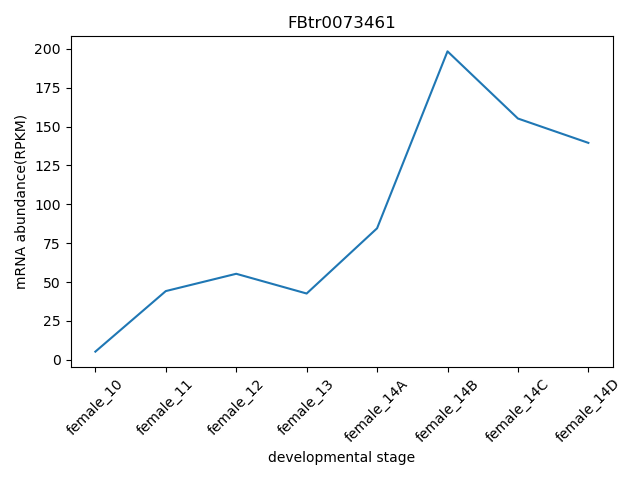
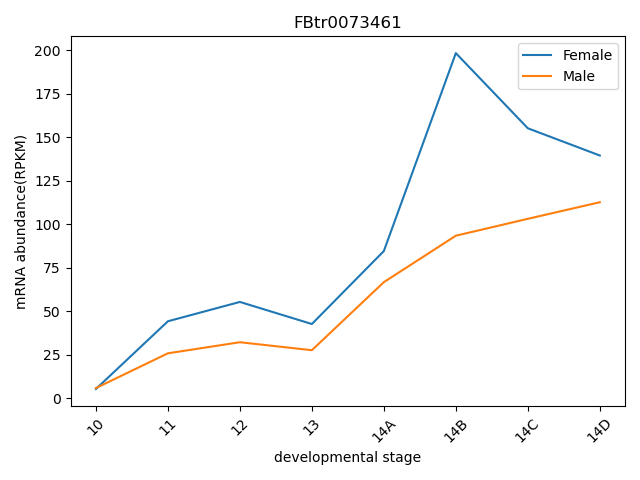
qbbhw2 step2

diff --git a/day2-homework/plot-sisA.py b/day2-homework/plot-sisA.py
@@ -16,29 +16,40 @@ data = np.loadtxt( "all_annotated.csv", delimiter=",", dtype=np.float32, skiprow
 print( "data: ", data[0:5, 0:5] )
 
 # Find row with transcript of interest
+row = 0
 for i in range(len(transcripts)):
     if transcripts[i] == 'FBtr0073461':
         row = i
 
 # Find columns with samples of interest
-cols = []
+cols1 = []
 for i in range(len(samples)):
     if "female" in samples[i]:
-        cols.append(i)
+        cols1.append(i)
+cols2 = []
+for i in range(len(samples)):
+    if "female" not in samples[i]:
+        cols2.append(i)
+# print(cols1)
+# print(cols2)
 
 # Subset data of interest
-expression = data[row, cols]
+expression_f = data[row, cols1]
+expression_m = data[row, cols2]
 
 # Prepare data
-x = samples[cols]
-y = expression
+x = ["10","11","12","13","14A","14B","14C","14D"]
+y1 = expression_f
+y2 = expression_m
 
 # Plot data
 fig, ax = plt.subplots()
 ax.set_xlabel("developmental stage")
 ax.set_ylabel("mRNA abundance(RPKM)")
 ax.set_title( "FBtr0073461" )
-ax.plot( x, y )
+plt.plot(x,y1)
+plt.plot(x,y2)
+plt.legend(["Female", "Male"])
 plt.xticks(rotation = 45)
 plt.tight_layout()
 plt.show()
